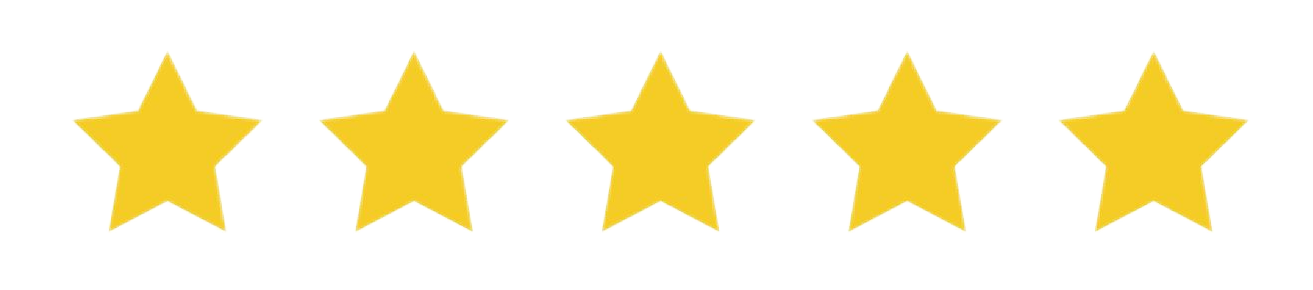
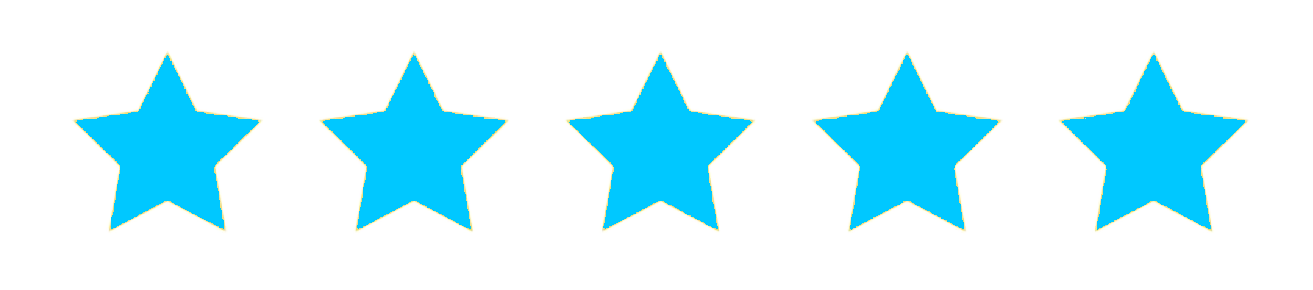
Image changes to Stars

diff --git a/RicksStaffApp/UIHelper.cs b/RicksStaffApp/UIHelper.cs
@@ -134,7 +134,7 @@ namespace RicksStaffApp
         public static Image GetStars(float rating)
         {
             Image starsImage;
-            Color starColor = Color.White;
+            //Color starColor = Color.White;
             switch (rating)
             {
                 case float r when r >= 10 || r >= 9.5:
@@ -186,66 +186,67 @@ namespace RicksStaffApp
                     //starColor = RatingZero;
                     break;
             }
-            Bitmap resultImage = new Bitmap(starsImage.Width, starsImage.Height);
+            return starsImage;
+        //    Bitmap resultImage = new Bitmap(starsImage.Width, starsImage.Height);
 
-            using (Graphics graphics = Graphics.FromImage(resultImage))
-            {
-                // Draw the starsImage onto the resultImage
-                graphics.DrawImage(starsImage, Point.Empty);
+        //    using (Graphics graphics = Graphics.FromImage(resultImage))
+        //    {
+        //        // Draw the starsImage onto the resultImage
+        //        graphics.DrawImage(starsImage, Point.Empty);
 
-                // Define the region that corresponds to the stars inside the image
-                GraphicsPath starsRegion = new GraphicsPath();
-                starsRegion.AddPolygon(new[]
-                {
-            new Point(13, 0),
-            new Point(16, 8),
-            new Point(24, 9),
-            new Point(18, 15),
-            new Point(20, 23),
-            new Point(13, 19),
-            new Point(6, 23),
-            new Point(8, 15),
-            new Point(2, 9),
-            new Point(10, 8)
-        });
+        //        // Define the region that corresponds to the stars inside the image
+        //        GraphicsPath starsRegion = new GraphicsPath();
+        //        starsRegion.AddPolygon(new[]
+        //        {
+        //    new Point(13, 0),
+        //    new Point(16, 8),
+        //    new Point(24, 9),
+        //    new Point(18, 15),
+        //    new Point(20, 23),
+        //    new Point(13, 19),
+        //    new Point(6, 23),
+        //    new Point(8, 15),
+        //    new Point(2, 9),
+        //    new Point(10, 8)
+        //});
 
-                // Create a region from the stars path
-                Region starsRegionMask = new Region(starsRegion);
+        //        // Create a region from the stars path
+        //        Region starsRegionMask = new Region(starsRegion);
 
-                // Set the clipping region of the graphics object to the stars region
-                graphics.SetClip(starsRegionMask, CombineMode.Intersect);
+        //        // Set the clipping region of the graphics object to the stars region
+        //        graphics.SetClip(starsRegionMask, CombineMode.Intersect);
 
-                // Apply the corresponding color based on the rating
-                //Color starColor;
-                if (rating >= 10 || rating >= 9.5)
-                {
-                    starColor = RatingTen;
-                }
-                if (rating < 9.5 && rating >= 8.5)
-                {
-                    starColor = RatingNine;
-                }
-                if (rating < 8.5 && rating >= 7.5)
-                {
-                    starColor = RatingEight;
-                }
-                if ( rating < 7.5 && rating >= 6.5)
-                {
-                    starColor = RatingSeven;
-                }
-                else
-                {
-                    starColor = RatingSix;
-                }
-                // Add more cases for other ratings and their corresponding colors
+        //        // Apply the corresponding color based on the rating
+        //        //Color starColor;
+        //        if (rating >= 10 || rating >= 9.5)
+        //        {
+        //            starColor = RatingTen;
+        //        }
+        //        if (rating < 9.5 && rating >= 8.5)
+        //        {
+        //            starColor = RatingNine;
+        //        }
+        //        if (rating < 8.5 && rating >= 7.5)
+        //        {
+        //            starColor = RatingEight;
+        //        }
+        //        if ( rating < 7.5 && rating >= 6.5)
+        //        {
+        //            starColor = RatingSeven;
+        //        }
+        //        else
+        //        {
+        //            starColor = RatingSix;
+        //        }
+        //        // Add more cases for other ratings and their corresponding colors
 
-                // Fill the clipped region with the corresponding color
-                using (Brush brush = new SolidBrush(starColor))
-                {
-                    graphics.FillRegion(brush, graphics.Clip);
-                }
-            }
-            return resultImage;
+        //        // Fill the clipped region with the corresponding color
+        //        using (Brush brush = new SolidBrush(starColor))
+        //        {
+        //            graphics.FillRegion(brush, graphics.Clip);
+        //        }
+        //    }
+            
             //using (Graphics graphics = Graphics.FromImage(StarsDisplayed))
             //using (Brush brush = new SolidBrush(starColor))
             //{
@@ -835,7 +836,7 @@ namespace RicksStaffApp
                 empPanel.Controls.Add(btnName);
                 // Create panels for employee positions
 
-                PictureBox pbRating = CreateRatingPictureBox(90, 30, emp.OverallRating);
+                PictureBox pbRating = CreateRatingPictureBox(90, 25, emp.OverallRating);
                 empPanel.Controls.Add(pbRating);
 
                 empPanelContainer.Controls.Add(empPanel);
